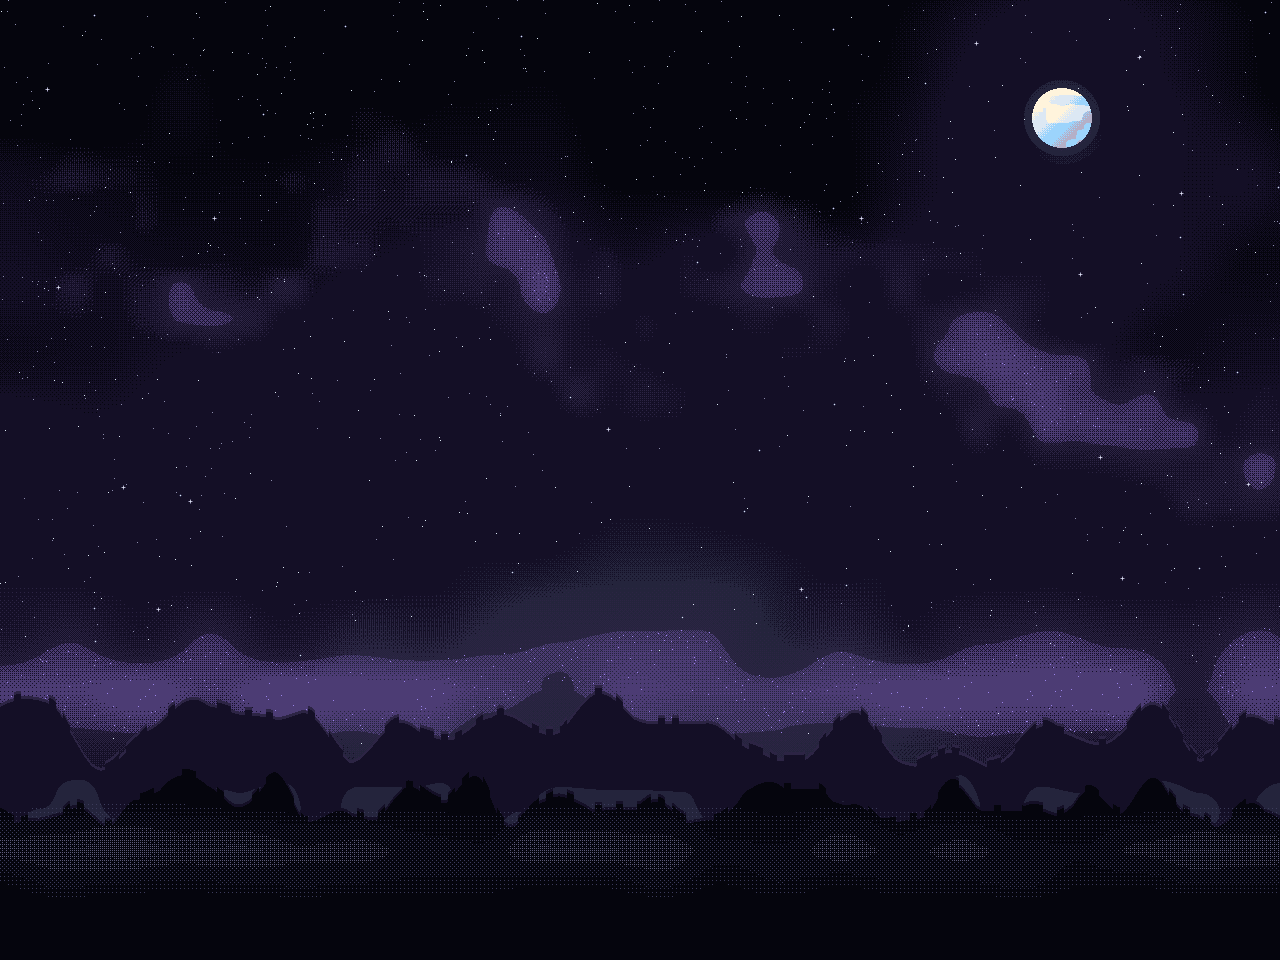
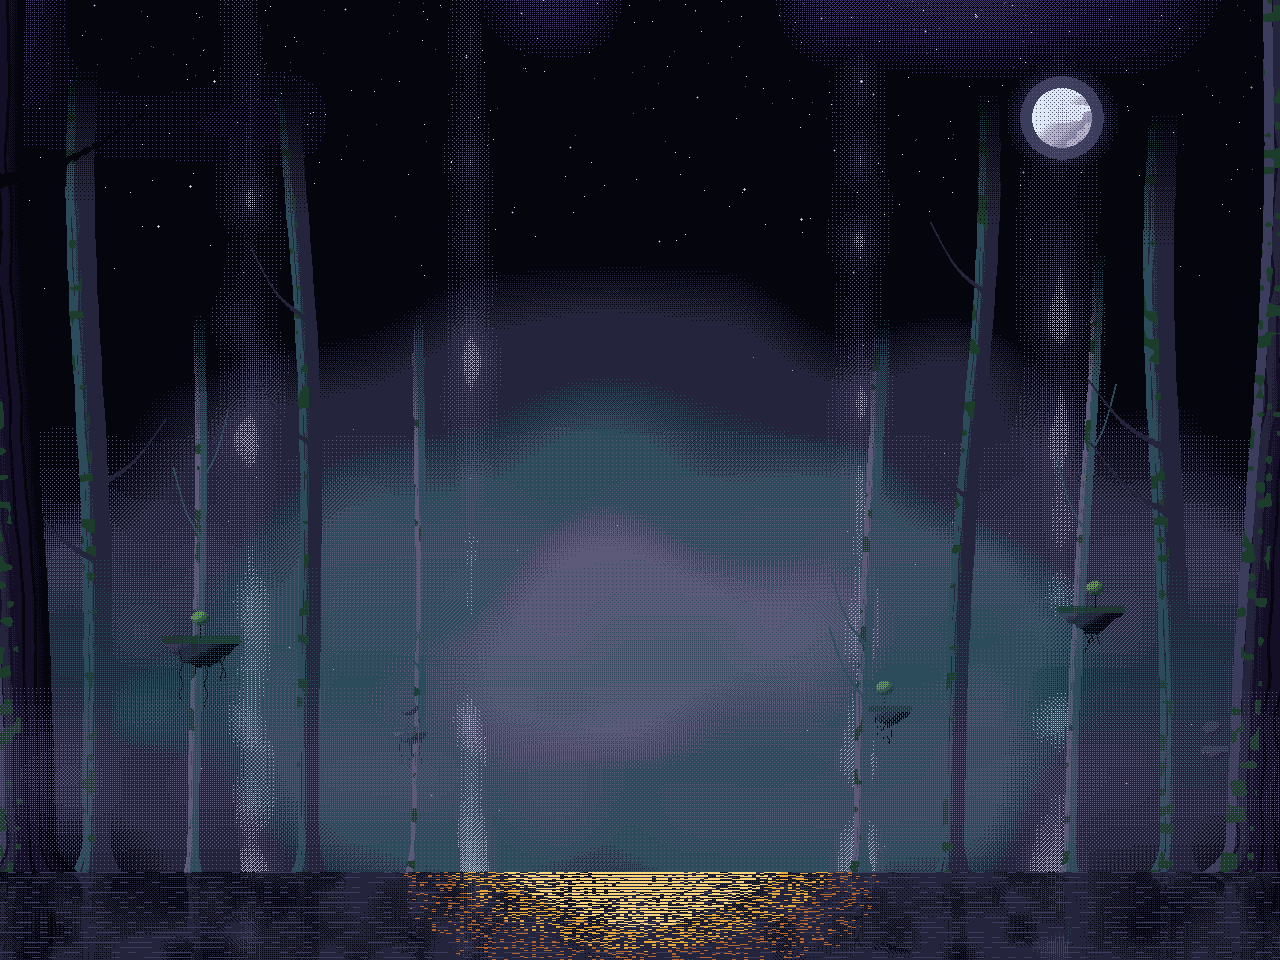
Memory Grove: the title screen's world (misty swamp forest, floating islands)
The sky becomes the title's cool teal fog with a faint violet shimmer; background trunks in three layers dissolve into it (bark, moss, root flares); pale light shafts fall through the fog; floating islets hang in the mist; the Heartwood stands on a small mound in dark still water that reflects its warm light; drifting pale motes. All Heartwood 32, opaque dither.

diff --git a/Project_T/tools/meta_art/grove_gen.html b/Project_T/tools/meta_art/grove_gen.html
@@ -601,9 +601,10 @@ function thickPath(L, pts, w0, w1, fn) {
 function groveTree() {
   const out = new Img(GW, GH), L = new Img(GW, GH), M = new Img(GW, GH);
   // A low mossy mound (lit on its upper left) the roots sink into, as on the map Heartwood.
-  ellipse(out, 640, 952, 560, 90, (x, y, dx, dy) => pick([HW.Void, HW.Void, HW.Deepmoss, HW.Moss], clamp(.3 - dy * .45 + (pnoise(x, y, 9, 3) - .5) * .4, 0, 1), x, y));
+  ellipse(out, 640, 948, 380, 66, (x, y, dx, dy) => pick([HW.Void, HW.Void, HW.Deepmoss, HW.Moss], clamp(.3 - dy * .45 + (pnoise(x, y, 9, 3) - .5) * .4, 0, 1), x, y));
   for (let k = 0; k < 900; k++) {
     const x = 120 + hash(k, 1, 4) * 1040, y = 880 + hash(k, 2, 4) * 80;
+    if (((x - 640) / 370) ** 2 + ((y - 948) / 60) ** 2 > 1) continue;  // moss only on the mound, not the water
     if (hash(k, 3, 4) < .6) { out.set(x, y, LEAFG[1]); out.set(x, y - 1, LEAFG[2]); if (hash(k, 4, 4) < .4) out.set(x + 1, y - 2, LEAFG[3]); }
   }
   // A soft flat shadow under the whole tree.
@@ -766,60 +767,104 @@ const MOON = [1062, 118];
 
 // ---- the night sky behind it: moon, stars, two layers of distant forest, low fog ----
 function grovesky() {
-  const out = new Img(GW, GH), cols = ["#06051a", "#0a0820", "#0e0b28", "#131030", "#1a1434", "#241a36", "#2e2034"];
+  // The title screen's world: a misty swamp forest at night. Cool slate fog brightening toward the
+  // horizon, tall dark trunks in three layers fading into it, pale shafts of light, still dark water.
+  const out = new Img(GW, GH), SKY = [HW.Void, HW.Void, HW.Night, HW.Night, HW.Pool, HW.Pool, HW.Slate];
+  const fogAt = (x, y) => clamp(Math.max(0, 1 - Math.hypot((x - 640) / 760, (y - 640) / 420)) * .9 + (y / GH) * .25 + (pnoise(x, y, 120, 61) - .5) * .18, 0, 1);
   for (let y = 0; y < GH; y++) for (let x = 0; x < GW; x++) {
-    const glow = Math.max(0, 1 - Math.hypot((x - 640) / 620, (y - 700) / 520));
-    const moon = Math.max(0, 1 - Math.hypot(x - MOON[0], y - MOON[1]) / 230);
-    let t = y / GH * .55 + glow * .55 + moon * .35 + (pnoise(x, y, 90, 61) - .5) * .12;
-    out.set(x, y, pick(cols, clamp(t, 0, 1), x, y, .9));
-    const h = hash(x, y, 62);
-    if (y < 760 && h < .0016 * (1 - glow) * (1 - moon)) out.set(x, y, h < .0004 ? "#e8ecff" : "#8a8ac0");
+    out.set(x, y, pick(SKY, fogAt(x, y), x, y, .9));
+    const h = hash(x, y, 62), clear = Math.max(0, 1 - y / 360);
+    if (h < .0022 * clear * clear) out.set(x, y, h < .0006 ? HW.Moonlight : HW.Slate);
   }
-  // A dream nebula drifting across the sky: a violet band, dithered (opaque, so nothing blends to mud).
-  for (let y = 0; y < 640; y++) for (let x = 0; x < GW; x++) {
-    const n = pnoise(x, y, 110, 71) * .6 + pnoise(x, y, 36, 72) * .4, c = 150 + x * .22 + (pnoise(x, 0, 200, 73) - .5) * 160;
-    const band = Math.exp(-(((y - c) / 120) ** 2)) * n * (1 - Math.max(0, 1 - Math.hypot(x - MOON[0], y - MOON[1]) / 160));
-    if (band > .36 && bay(x, y) < (band - .36) * 2.4) out.set(x, y, band > .6 ? HW.Bruise : HW.Shade);
-    if (band > .66 && hash(x, y, 74) < .006) out.set(x, y, HW.Wraithlight);
-  }
-  // A violet dream haze glowing above the far hills (the open band of sky under the crown).
-  for (let y = 540; y < 780; y++) for (let x = 0; x < GW; x++) {
-    const h = (1 - Math.abs(y - 690) / 150) * (.55 + pnoise(x, y, 70, 78) * .7);
-    if (h > .3 && bay(x, y) < (h - .3) * 1.4) out.set(x, y, h > .72 ? HW.Bruise : HW.Shade);
-    if (h > .7 && hash(x, y, 79) < .004) out.set(x, y, HW.Wraithlight);
-  }
-  // Twinkling four-point stars, brighter than the dust.
-  for (let k = 0; k < 46; k++) {
-    const x = hash(k, 1, 75) * GW | 0, y = hash(k, 2, 75) * 700 | 0, big = hash(k, 3, 75) < .35;
+  // A few twinkling four-point stars high up.
+  for (let k = 0; k < 22; k++) {
+    const x = hash(k, 1, 75) * GW | 0, y = hash(k, 2, 75) * 260 | 0;
     if (Math.hypot(x - MOON[0], y - MOON[1]) < 90) continue;
     out.set(x, y, HW.Moonlight);
-    for (const [a, b] of [[1, 0], [-1, 0], [0, 1], [0, -1]]) out.set(x + a, y + b, big ? HW.Mist : HW.Dusk);
-    if (big) for (const [a, b] of [[2, 0], [-2, 0], [0, 2], [0, -2]]) out.set(x + a, y + b, HW.Slate);
+    for (const [a, b] of [[1, 0], [-1, 0], [0, 1], [0, -1]]) out.set(x + a, y + b, hash(k, 3, 75) < .4 ? HW.Mist : HW.Dusk);
   }
-  // The moon, with a soft halo and a few darker seas.
-  ellipse(out, MOON[0], MOON[1], 70, 70, (x, y, dx, dy) => CA("#b8c4ff", Math.max(0, 1 - Math.hypot(dx, dy)) ** 2 * .35));
+  // The moon behind the fog.
+  ellipse(out, MOON[0], MOON[1], 58, 58, (x, y, dx, dy) => { const r = Math.hypot(dx, dy); return r < .72 ? HW.Dusk : bay(x, y) < (1 - r) * 1.2 ? HW.Dusk : null; });
   ellipse(out, MOON[0], MOON[1], 30, 30, (x, y, dx, dy) => {
     const sea = pnoise(x, y, 9, 64) > .6;
-    return pick(["#9aa0c8", "#c4c8e4", "#e8eaf8", "#fbfcff"], clamp(.75 - dx * .3 - dy * .3 - (sea ? .3 : 0), 0, 1), x, y, .5);
+    return pick([HW.Stone, HW.Mist, HW.Moonlight, HW.Moonlight], clamp(.75 - dx * .3 - dy * .3 - (sea ? .3 : 0), 0, 1), x, y, .5);
   });
-  // Far forest (bluer), then nearer forest (darker), then fog lying between them.
-  const band = (base, amp, cell, seed, fill, edge) => {
-    for (let x = 0; x < GW; x++) {
-      const spikes = Math.max(0, Math.sin(x / (cell * .45) + seed) * 12) + (hash(Math.floor(x / 7), 0, seed) < .3 ? 6 : 0);
-      const top = base - pnoise(x, 0, cell, seed) * amp - spikes;
-      for (let y = Math.floor(top); y < GH; y++) out.set(x, y, y < top + 2 ? edge : fill);
+  // Pale shafts of light falling through the fog between the trunks.
+  for (const [sx, w, lean] of [[250, 60, .12], [470, 44, .08], [860, 52, -.06], [1060, 70, -.1]]) for (let y = 0; y < 880; y++) for (let x = sx - w; x < sx + w; x++) {
+    const cx = sx + (y - 440) * lean, d = Math.abs(x + (y - 440) * lean - sx) / w, a = (1 - d) * (.35 + y / 880 * .5) * (.6 + pnoise(x, y, 40, 80) * .6);
+    const px = Math.round(x + (cx - sx));
+    if (a > .15 && bay(px, y) < (a - .15) * .75) out.set(px, y, a > .5 ? HW.Mist : HW.Slate);
+  }
+  // Tall trunks in three layers: far ones pale in the fog, near ones almost black, a lit left edge on each.
+  // A faint violet dream shimmer in the fog up high (opaque dither, sparse).
+  for (let y = 0; y < 420; y++) for (let x = 0; x < GW; x++) {
+    const d = pnoise(x, y, 140, 90) * (1 - y / 420);
+    if (d > .45 && bay(x, y) < (d - .45) * .9) out.set(x, y, HW.Bruise);
+  }
+  // Floating islands, like the title screen's: a dark rock islet with a moss top, a tiny tree, and
+  // roots dangling below. `fog` 0..1 = how far back (fainter colours, dithered away).
+  const island = (cx, cy, w, fog, seed) => {
+    const I = new Img(GW, GH), rock = fog > .5 ? [HW.Night, HW.Dusk, HW.Slate] : [HW.Void, HW.Night, HW.Dusk];
+    for (let y = cy - 4; y < cy + w * .7; y++) for (let x = cx - w; x <= cx + w; x++) {
+      const u = (x - cx) / w, v = (y - cy) / (w * .7), edge = 1 - Math.abs(u) ** 1.6 - (pnoise(x, y, 6, seed) - .5) * .3;
+      if (v < 0 ? Math.abs(u) > .98 : v > edge) continue;
+      I.set(x, y, v < .12 ? (fog > .5 ? HW.Pool : HW.Deepmoss) : pick(rock, clamp(.6 - u * .4 - v * .5, 0, 1), x, y, .5));
+    }
+    for (let k = 0; k < 5; k++) {  // dangling roots
+      const rx = cx + (hash(seed, k, 91) - .5) * w * 1.2, len = 14 + hash(seed, k, 92) * w * .9;
+      for (let i = 0; i < len; i++) I.set(rx + Math.sin(i * .3 + k) * 1.5, cy + w * .5 * (1 - Math.abs(rx - cx) / w) + i, rock[0]);
+    }
+    const tx = cx + (hash(seed, 1, 93) - .5) * w * .6;  // a tiny tree on top
+    for (let i = 0; i < 16; i++) I.set(tx, cy - 3 - i, rock[0]);
+    blob(I, tx, cy - 22, 9, 7, fog > .5 ? [HW.Night, HW.Pool, HW.Pool] : [HW.Deepmoss, HW.Moss, HW.Leaf], { seed, dither: 0 });
+    for (let y = 0; y < GH; y++) for (let x = 0; x < GW; x++) if (I.alpha(x, y) && bay(x, y) < 1 - fog * .45) out.set(x, y, I.get(x, y));
+  };
+  // Drifting pale motes in the air.
+  for (let k = 0; k < 60; k++) {
+    const x = hash(k, 1, 94) * GW | 0, y = hash(k, 2, 94) * 860 | 0;
+    out.set(x, y, k % 4 ? HW.Mist : HW.Wraithlight);
+    if (k % 5 === 0) for (const [a, b] of [[1, 0], [-1, 0], [0, 1], [0, -1]]) out.set(x + a, y + b, HW.Slate);
+  }
+  // A background trunk: it rises out of the water on a root flare, bends a little, and dissolves into
+  // the fog as it climbs (dithered, `fade` = how far up it still reads). Bark grain runs along it,
+  // moss clings to its lit left side, a branch or two reaches out.
+  const trunk = (x0, w, lean, bend, seed, cols, rim, fade) => {
+    const top = 880 - fade;
+    const at = y => x0 + (y - 880) * lean + Math.sin(y / 150 + seed) * bend * (1 - y / 880);
+    for (let y = Math.max(0, top - 120); y < 884; y++) {
+      const vis = clamp((y - (top - 120)) / 140, 0, 1);  // how solid it is at this height
+      const flare = y > 840 ? (y - 840) / 44 : 0, cx = at(y), ww = w * (1 + flare * flare * 1.4) + (pnoise(y, 0, 24, seed) - .5) * 2.5;
+      for (let x = Math.floor(cx - ww / 2); x <= cx + ww / 2; x++) {
+        if (bay(x, y) >= vis) continue;
+        const nx = (x - cx) / (ww / 2), grain = Math.abs(((nx + 1) * 2.5 + pnoise(x, y, 40, seed) * .6) % 1 - .5) > .38;
+        let c = nx < -.72 ? rim : pick(cols, clamp(.55 - nx * .35 + (grain ? -.25 : 0), 0, 1), x, y, .4);
+        if (nx < -.1 && pnoise(x, y, 9, seed + 7) > .72) c = HW.Deepmoss;  // moss on the lit side
+        out.set(x, y, c);
+      }
+    }
+    for (let k = 0; k < 2; k++) {  // a branch or two, reaching up and out, fading with the trunk
+      const y = top + 40 + hash(seed, k, 81) * (fade * .5), s = hash(seed, k, 82) < .5 ? -1 : 1, cx = at(y);
+      if (y > 700) continue;
+      const pts = catmull([[cx, y], [cx + s * w * 1.4, y - 26], [cx + s * w * 2.6, y - 70]], 8);
+      for (let i = 1; i < pts.length; i++) stroke(out, pts[i - 1][0], pts[i - 1][1], pts[i][0], pts[i][1], Math.max(2, w * .3 * (1 - i / pts.length)), 1.5, (xx, yy) => bay(xx, yy) < clamp((yy - (top - 120)) / 140, 0, 1) ? cols[0] : null);
     }
   };
-  band(770, 70, 50, 63, "#161a30", "#262c48");
-  for (let y = 770; y < 872; y++) for (let x = 0; x < GW; x++) {
-    const edge = (Math.abs(y - 820) / 50) ** 2;
-    if (pnoise(x, y, 40, 66) > .45 + edge * .6) out.set(x, y, CA("#5a5a8a", .16));
-  }
-  band(830, 50, 34, 65, "#0a0c16", "#141828");
-  // Swamp mist lying low between the far trees (the title screen's mist).
-  for (let y = 790; y < GH; y++) for (let x = 0; x < GW; x++) {
-    const d = (1 - Math.abs(y - 850) / 60) * (.45 + pnoise(x, y, 60, 67) * .8);
-    if (d > .25 && bay(x, y) < d * .22) out.set(x, y, d > .7 ? HW.Slate : HW.Dusk);
+  const mistBand = (y0, y1, dens, col) => { for (let y = y0; y < y1; y++) for (let x = 0; x < GW; x++) { const u = (y - y0) / (y1 - y0), d = Math.sin(Math.PI * u) ** 2 * (.4 + pnoise(x, y, 70, 83 + y0) * .9); if (bay(x, y) < d * dens) out.set(x, y, col); } };  // smooth top and bottom, no hard edge
+  // Far: pale, barely there. Middle: darker, reaching higher. Near: one dark trunk at each edge.
+  for (const x of [180, 430, 860, 1080]) trunk(x + (hash(x, 1, 84) - .5) * 40, 10 + hash(x, 2, 84) * 8, (hash(x, 3, 84) - .5) * .08, 10, x, [HW.Pool, HW.Pool, HW.Slate], HW.Slate, 360 + hash(x, 4, 84) * 160);
+  mistBand(380, 900, .34, HW.Slate);
+  for (const x of [90, 330, 960, 1170]) trunk(x + (hash(x, 1, 85) - .5) * 50, 20 + hash(x, 2, 85) * 12, (hash(x, 3, 85) - .5) * .1, 14, x + 20, [HW.Night, HW.Night, HW.Pool], HW.Pool, 560 + hash(x, 4, 85) * 200);
+  mistBand(520, 900, .28, HW.Pool);
+  island(200, 640, 40, .35, 1); island(1090, 610, 34, .4, 2); island(410, 730, 20, .55, 3); island(890, 710, 22, .5, 4); island(1215, 750, 14, .6, 5);
+  for (const [x, w, lean] of [[28, 58, .04], [1256, 62, -.05]]) trunk(x, w, lean, 10, x, [HW.Void, HW.Dread, HW.Night], HW.Dusk, 900);
+  mistBand(660, 900, .3, HW.Slate);
+  // Still dark water at the bottom: ripple lines, the trunks' dim reflections, and the Heartwood's
+  // warm light reflected in a broken column below it.
+  for (let y = 872; y < GH; y++) for (let x = 0; x < GW; x++) {
+    const src = out.get(x, Math.max(0, 872 - (y - 872) * 2 - 1));
+    out.set(x, y, ((y - 872) % 5 === 0 && hash(x >> 3, y, 86) < .5) ? HW.Dusk : pick([HW.Void, HW.Night, HW.Pool], .25 + (src[0] + src[1] + src[2]) / 765 * .6 + (pnoise(x, y, 30, 87) - .5) * .2, x, y, .7));
+    const warm = Math.max(0, 1 - Math.abs(x - 640) / 260) * Math.max(0, 1 - (y - 872) / 110) * 1.3;
+    if (warm > .1 && (y - 872) % 3 !== 2 && hash(x >> 2, y, 88) < warm * .8) out.set(x, y, warm > .6 ? HW.Glow : warm > .35 ? HW.Gold : HW.Ember);
   }
   return out;
 }

diff --git a/Project_T/tools/meta_art/grove_tree.js b/Project_T/tools/meta_art/grove_tree.js
@@ -142,9 +142,10 @@ function thickPath(L, pts, w0, w1, fn) {
 function groveTree() {
   const out = new Img(GW, GH), L = new Img(GW, GH), M = new Img(GW, GH);
   // A low mossy mound (lit on its upper left) the roots sink into, as on the map Heartwood.
-  ellipse(out, 640, 952, 560, 90, (x, y, dx, dy) => pick([HW.Void, HW.Void, HW.Deepmoss, HW.Moss], clamp(.3 - dy * .45 + (pnoise(x, y, 9, 3) - .5) * .4, 0, 1), x, y));
+  ellipse(out, 640, 948, 380, 66, (x, y, dx, dy) => pick([HW.Void, HW.Void, HW.Deepmoss, HW.Moss], clamp(.3 - dy * .45 + (pnoise(x, y, 9, 3) - .5) * .4, 0, 1), x, y));
   for (let k = 0; k < 900; k++) {
     const x = 120 + hash(k, 1, 4) * 1040, y = 880 + hash(k, 2, 4) * 80;
+    if (((x - 640) / 370) ** 2 + ((y - 948) / 60) ** 2 > 1) continue;  // moss only on the mound, not the water
     if (hash(k, 3, 4) < .6) { out.set(x, y, LEAFG[1]); out.set(x, y - 1, LEAFG[2]); if (hash(k, 4, 4) < .4) out.set(x + 1, y - 2, LEAFG[3]); }
   }
   // A soft flat shadow under the whole tree.
@@ -307,60 +308,104 @@ const MOON = [1062, 118];
 
 // ---- the night sky behind it: moon, stars, two layers of distant forest, low fog ----
 function grovesky() {
-  const out = new Img(GW, GH), cols = ["#06051a", "#0a0820", "#0e0b28", "#131030", "#1a1434", "#241a36", "#2e2034"];
+  // The title screen's world: a misty swamp forest at night. Cool slate fog brightening toward the
+  // horizon, tall dark trunks in three layers fading into it, pale shafts of light, still dark water.
+  const out = new Img(GW, GH), SKY = [HW.Void, HW.Void, HW.Night, HW.Night, HW.Pool, HW.Pool, HW.Slate];
+  const fogAt = (x, y) => clamp(Math.max(0, 1 - Math.hypot((x - 640) / 760, (y - 640) / 420)) * .9 + (y / GH) * .25 + (pnoise(x, y, 120, 61) - .5) * .18, 0, 1);
   for (let y = 0; y < GH; y++) for (let x = 0; x < GW; x++) {
-    const glow = Math.max(0, 1 - Math.hypot((x - 640) / 620, (y - 700) / 520));
-    const moon = Math.max(0, 1 - Math.hypot(x - MOON[0], y - MOON[1]) / 230);
-    let t = y / GH * .55 + glow * .55 + moon * .35 + (pnoise(x, y, 90, 61) - .5) * .12;
-    out.set(x, y, pick(cols, clamp(t, 0, 1), x, y, .9));
-    const h = hash(x, y, 62);
-    if (y < 760 && h < .0016 * (1 - glow) * (1 - moon)) out.set(x, y, h < .0004 ? "#e8ecff" : "#8a8ac0");
+    out.set(x, y, pick(SKY, fogAt(x, y), x, y, .9));
+    const h = hash(x, y, 62), clear = Math.max(0, 1 - y / 360);
+    if (h < .0022 * clear * clear) out.set(x, y, h < .0006 ? HW.Moonlight : HW.Slate);
   }
-  // A dream nebula drifting across the sky: a violet band, dithered (opaque, so nothing blends to mud).
-  for (let y = 0; y < 640; y++) for (let x = 0; x < GW; x++) {
-    const n = pnoise(x, y, 110, 71) * .6 + pnoise(x, y, 36, 72) * .4, c = 150 + x * .22 + (pnoise(x, 0, 200, 73) - .5) * 160;
-    const band = Math.exp(-(((y - c) / 120) ** 2)) * n * (1 - Math.max(0, 1 - Math.hypot(x - MOON[0], y - MOON[1]) / 160));
-    if (band > .36 && bay(x, y) < (band - .36) * 2.4) out.set(x, y, band > .6 ? HW.Bruise : HW.Shade);
-    if (band > .66 && hash(x, y, 74) < .006) out.set(x, y, HW.Wraithlight);
-  }
-  // A violet dream haze glowing above the far hills (the open band of sky under the crown).
-  for (let y = 540; y < 780; y++) for (let x = 0; x < GW; x++) {
-    const h = (1 - Math.abs(y - 690) / 150) * (.55 + pnoise(x, y, 70, 78) * .7);
-    if (h > .3 && bay(x, y) < (h - .3) * 1.4) out.set(x, y, h > .72 ? HW.Bruise : HW.Shade);
-    if (h > .7 && hash(x, y, 79) < .004) out.set(x, y, HW.Wraithlight);
-  }
-  // Twinkling four-point stars, brighter than the dust.
-  for (let k = 0; k < 46; k++) {
-    const x = hash(k, 1, 75) * GW | 0, y = hash(k, 2, 75) * 700 | 0, big = hash(k, 3, 75) < .35;
+  // A few twinkling four-point stars high up.
+  for (let k = 0; k < 22; k++) {
+    const x = hash(k, 1, 75) * GW | 0, y = hash(k, 2, 75) * 260 | 0;
     if (Math.hypot(x - MOON[0], y - MOON[1]) < 90) continue;
     out.set(x, y, HW.Moonlight);
-    for (const [a, b] of [[1, 0], [-1, 0], [0, 1], [0, -1]]) out.set(x + a, y + b, big ? HW.Mist : HW.Dusk);
-    if (big) for (const [a, b] of [[2, 0], [-2, 0], [0, 2], [0, -2]]) out.set(x + a, y + b, HW.Slate);
+    for (const [a, b] of [[1, 0], [-1, 0], [0, 1], [0, -1]]) out.set(x + a, y + b, hash(k, 3, 75) < .4 ? HW.Mist : HW.Dusk);
   }
-  // The moon, with a soft halo and a few darker seas.
-  ellipse(out, MOON[0], MOON[1], 70, 70, (x, y, dx, dy) => CA("#b8c4ff", Math.max(0, 1 - Math.hypot(dx, dy)) ** 2 * .35));
+  // The moon behind the fog.
+  ellipse(out, MOON[0], MOON[1], 58, 58, (x, y, dx, dy) => { const r = Math.hypot(dx, dy); return r < .72 ? HW.Dusk : bay(x, y) < (1 - r) * 1.2 ? HW.Dusk : null; });
   ellipse(out, MOON[0], MOON[1], 30, 30, (x, y, dx, dy) => {
     const sea = pnoise(x, y, 9, 64) > .6;
-    return pick(["#9aa0c8", "#c4c8e4", "#e8eaf8", "#fbfcff"], clamp(.75 - dx * .3 - dy * .3 - (sea ? .3 : 0), 0, 1), x, y, .5);
+    return pick([HW.Stone, HW.Mist, HW.Moonlight, HW.Moonlight], clamp(.75 - dx * .3 - dy * .3 - (sea ? .3 : 0), 0, 1), x, y, .5);
   });
-  // Far forest (bluer), then nearer forest (darker), then fog lying between them.
-  const band = (base, amp, cell, seed, fill, edge) => {
-    for (let x = 0; x < GW; x++) {
-      const spikes = Math.max(0, Math.sin(x / (cell * .45) + seed) * 12) + (hash(Math.floor(x / 7), 0, seed) < .3 ? 6 : 0);
-      const top = base - pnoise(x, 0, cell, seed) * amp - spikes;
-      for (let y = Math.floor(top); y < GH; y++) out.set(x, y, y < top + 2 ? edge : fill);
+  // Pale shafts of light falling through the fog between the trunks.
+  for (const [sx, w, lean] of [[250, 60, .12], [470, 44, .08], [860, 52, -.06], [1060, 70, -.1]]) for (let y = 0; y < 880; y++) for (let x = sx - w; x < sx + w; x++) {
+    const cx = sx + (y - 440) * lean, d = Math.abs(x + (y - 440) * lean - sx) / w, a = (1 - d) * (.35 + y / 880 * .5) * (.6 + pnoise(x, y, 40, 80) * .6);
+    const px = Math.round(x + (cx - sx));
+    if (a > .15 && bay(px, y) < (a - .15) * .75) out.set(px, y, a > .5 ? HW.Mist : HW.Slate);
+  }
+  // Tall trunks in three layers: far ones pale in the fog, near ones almost black, a lit left edge on each.
+  // A faint violet dream shimmer in the fog up high (opaque dither, sparse).
+  for (let y = 0; y < 420; y++) for (let x = 0; x < GW; x++) {
+    const d = pnoise(x, y, 140, 90) * (1 - y / 420);
+    if (d > .45 && bay(x, y) < (d - .45) * .9) out.set(x, y, HW.Bruise);
+  }
+  // Floating islands, like the title screen's: a dark rock islet with a moss top, a tiny tree, and
+  // roots dangling below. `fog` 0..1 = how far back (fainter colours, dithered away).
+  const island = (cx, cy, w, fog, seed) => {
+    const I = new Img(GW, GH), rock = fog > .5 ? [HW.Night, HW.Dusk, HW.Slate] : [HW.Void, HW.Night, HW.Dusk];
+    for (let y = cy - 4; y < cy + w * .7; y++) for (let x = cx - w; x <= cx + w; x++) {
+      const u = (x - cx) / w, v = (y - cy) / (w * .7), edge = 1 - Math.abs(u) ** 1.6 - (pnoise(x, y, 6, seed) - .5) * .3;
+      if (v < 0 ? Math.abs(u) > .98 : v > edge) continue;
+      I.set(x, y, v < .12 ? (fog > .5 ? HW.Pool : HW.Deepmoss) : pick(rock, clamp(.6 - u * .4 - v * .5, 0, 1), x, y, .5));
+    }
+    for (let k = 0; k < 5; k++) {  // dangling roots
+      const rx = cx + (hash(seed, k, 91) - .5) * w * 1.2, len = 14 + hash(seed, k, 92) * w * .9;
+      for (let i = 0; i < len; i++) I.set(rx + Math.sin(i * .3 + k) * 1.5, cy + w * .5 * (1 - Math.abs(rx - cx) / w) + i, rock[0]);
+    }
+    const tx = cx + (hash(seed, 1, 93) - .5) * w * .6;  // a tiny tree on top
+    for (let i = 0; i < 16; i++) I.set(tx, cy - 3 - i, rock[0]);
+    blob(I, tx, cy - 22, 9, 7, fog > .5 ? [HW.Night, HW.Pool, HW.Pool] : [HW.Deepmoss, HW.Moss, HW.Leaf], { seed, dither: 0 });
+    for (let y = 0; y < GH; y++) for (let x = 0; x < GW; x++) if (I.alpha(x, y) && bay(x, y) < 1 - fog * .45) out.set(x, y, I.get(x, y));
+  };
+  // Drifting pale motes in the air.
+  for (let k = 0; k < 60; k++) {
+    const x = hash(k, 1, 94) * GW | 0, y = hash(k, 2, 94) * 860 | 0;
+    out.set(x, y, k % 4 ? HW.Mist : HW.Wraithlight);
+    if (k % 5 === 0) for (const [a, b] of [[1, 0], [-1, 0], [0, 1], [0, -1]]) out.set(x + a, y + b, HW.Slate);
+  }
+  // A background trunk: it rises out of the water on a root flare, bends a little, and dissolves into
+  // the fog as it climbs (dithered, `fade` = how far up it still reads). Bark grain runs along it,
+  // moss clings to its lit left side, a branch or two reaches out.
+  const trunk = (x0, w, lean, bend, seed, cols, rim, fade) => {
+    const top = 880 - fade;
+    const at = y => x0 + (y - 880) * lean + Math.sin(y / 150 + seed) * bend * (1 - y / 880);
+    for (let y = Math.max(0, top - 120); y < 884; y++) {
+      const vis = clamp((y - (top - 120)) / 140, 0, 1);  // how solid it is at this height
+      const flare = y > 840 ? (y - 840) / 44 : 0, cx = at(y), ww = w * (1 + flare * flare * 1.4) + (pnoise(y, 0, 24, seed) - .5) * 2.5;
+      for (let x = Math.floor(cx - ww / 2); x <= cx + ww / 2; x++) {
+        if (bay(x, y) >= vis) continue;
+        const nx = (x - cx) / (ww / 2), grain = Math.abs(((nx + 1) * 2.5 + pnoise(x, y, 40, seed) * .6) % 1 - .5) > .38;
+        let c = nx < -.72 ? rim : pick(cols, clamp(.55 - nx * .35 + (grain ? -.25 : 0), 0, 1), x, y, .4);
+        if (nx < -.1 && pnoise(x, y, 9, seed + 7) > .72) c = HW.Deepmoss;  // moss on the lit side
+        out.set(x, y, c);
+      }
+    }
+    for (let k = 0; k < 2; k++) {  // a branch or two, reaching up and out, fading with the trunk
+      const y = top + 40 + hash(seed, k, 81) * (fade * .5), s = hash(seed, k, 82) < .5 ? -1 : 1, cx = at(y);
+      if (y > 700) continue;
+      const pts = catmull([[cx, y], [cx + s * w * 1.4, y - 26], [cx + s * w * 2.6, y - 70]], 8);
+      for (let i = 1; i < pts.length; i++) stroke(out, pts[i - 1][0], pts[i - 1][1], pts[i][0], pts[i][1], Math.max(2, w * .3 * (1 - i / pts.length)), 1.5, (xx, yy) => bay(xx, yy) < clamp((yy - (top - 120)) / 140, 0, 1) ? cols[0] : null);
     }
   };
-  band(770, 70, 50, 63, "#161a30", "#262c48");
-  for (let y = 770; y < 872; y++) for (let x = 0; x < GW; x++) {
-    const edge = (Math.abs(y - 820) / 50) ** 2;
-    if (pnoise(x, y, 40, 66) > .45 + edge * .6) out.set(x, y, CA("#5a5a8a", .16));
-  }
-  band(830, 50, 34, 65, "#0a0c16", "#141828");
-  // Swamp mist lying low between the far trees (the title screen's mist).
-  for (let y = 790; y < GH; y++) for (let x = 0; x < GW; x++) {
-    const d = (1 - Math.abs(y - 850) / 60) * (.45 + pnoise(x, y, 60, 67) * .8);
-    if (d > .25 && bay(x, y) < d * .22) out.set(x, y, d > .7 ? HW.Slate : HW.Dusk);
+  const mistBand = (y0, y1, dens, col) => { for (let y = y0; y < y1; y++) for (let x = 0; x < GW; x++) { const u = (y - y0) / (y1 - y0), d = Math.sin(Math.PI * u) ** 2 * (.4 + pnoise(x, y, 70, 83 + y0) * .9); if (bay(x, y) < d * dens) out.set(x, y, col); } };  // smooth top and bottom, no hard edge
+  // Far: pale, barely there. Middle: darker, reaching higher. Near: one dark trunk at each edge.
+  for (const x of [180, 430, 860, 1080]) trunk(x + (hash(x, 1, 84) - .5) * 40, 10 + hash(x, 2, 84) * 8, (hash(x, 3, 84) - .5) * .08, 10, x, [HW.Pool, HW.Pool, HW.Slate], HW.Slate, 360 + hash(x, 4, 84) * 160);
+  mistBand(380, 900, .34, HW.Slate);
+  for (const x of [90, 330, 960, 1170]) trunk(x + (hash(x, 1, 85) - .5) * 50, 20 + hash(x, 2, 85) * 12, (hash(x, 3, 85) - .5) * .1, 14, x + 20, [HW.Night, HW.Night, HW.Pool], HW.Pool, 560 + hash(x, 4, 85) * 200);
+  mistBand(520, 900, .28, HW.Pool);
+  island(200, 640, 40, .35, 1); island(1090, 610, 34, .4, 2); island(410, 730, 20, .55, 3); island(890, 710, 22, .5, 4); island(1215, 750, 14, .6, 5);
+  for (const [x, w, lean] of [[28, 58, .04], [1256, 62, -.05]]) trunk(x, w, lean, 10, x, [HW.Void, HW.Dread, HW.Night], HW.Dusk, 900);
+  mistBand(660, 900, .3, HW.Slate);
+  // Still dark water at the bottom: ripple lines, the trunks' dim reflections, and the Heartwood's
+  // warm light reflected in a broken column below it.
+  for (let y = 872; y < GH; y++) for (let x = 0; x < GW; x++) {
+    const src = out.get(x, Math.max(0, 872 - (y - 872) * 2 - 1));
+    out.set(x, y, ((y - 872) % 5 === 0 && hash(x >> 3, y, 86) < .5) ? HW.Dusk : pick([HW.Void, HW.Night, HW.Pool], .25 + (src[0] + src[1] + src[2]) / 765 * .6 + (pnoise(x, y, 30, 87) - .5) * .2, x, y, .7));
+    const warm = Math.max(0, 1 - Math.abs(x - 640) / 260) * Math.max(0, 1 - (y - 872) / 110) * 1.3;
+    if (warm > .1 && (y - 872) % 3 !== 2 && hash(x >> 2, y, 88) < warm * .8) out.set(x, y, warm > .6 ? HW.Glow : warm > .35 ? HW.Gold : HW.Ember);
   }
   return out;
 }
